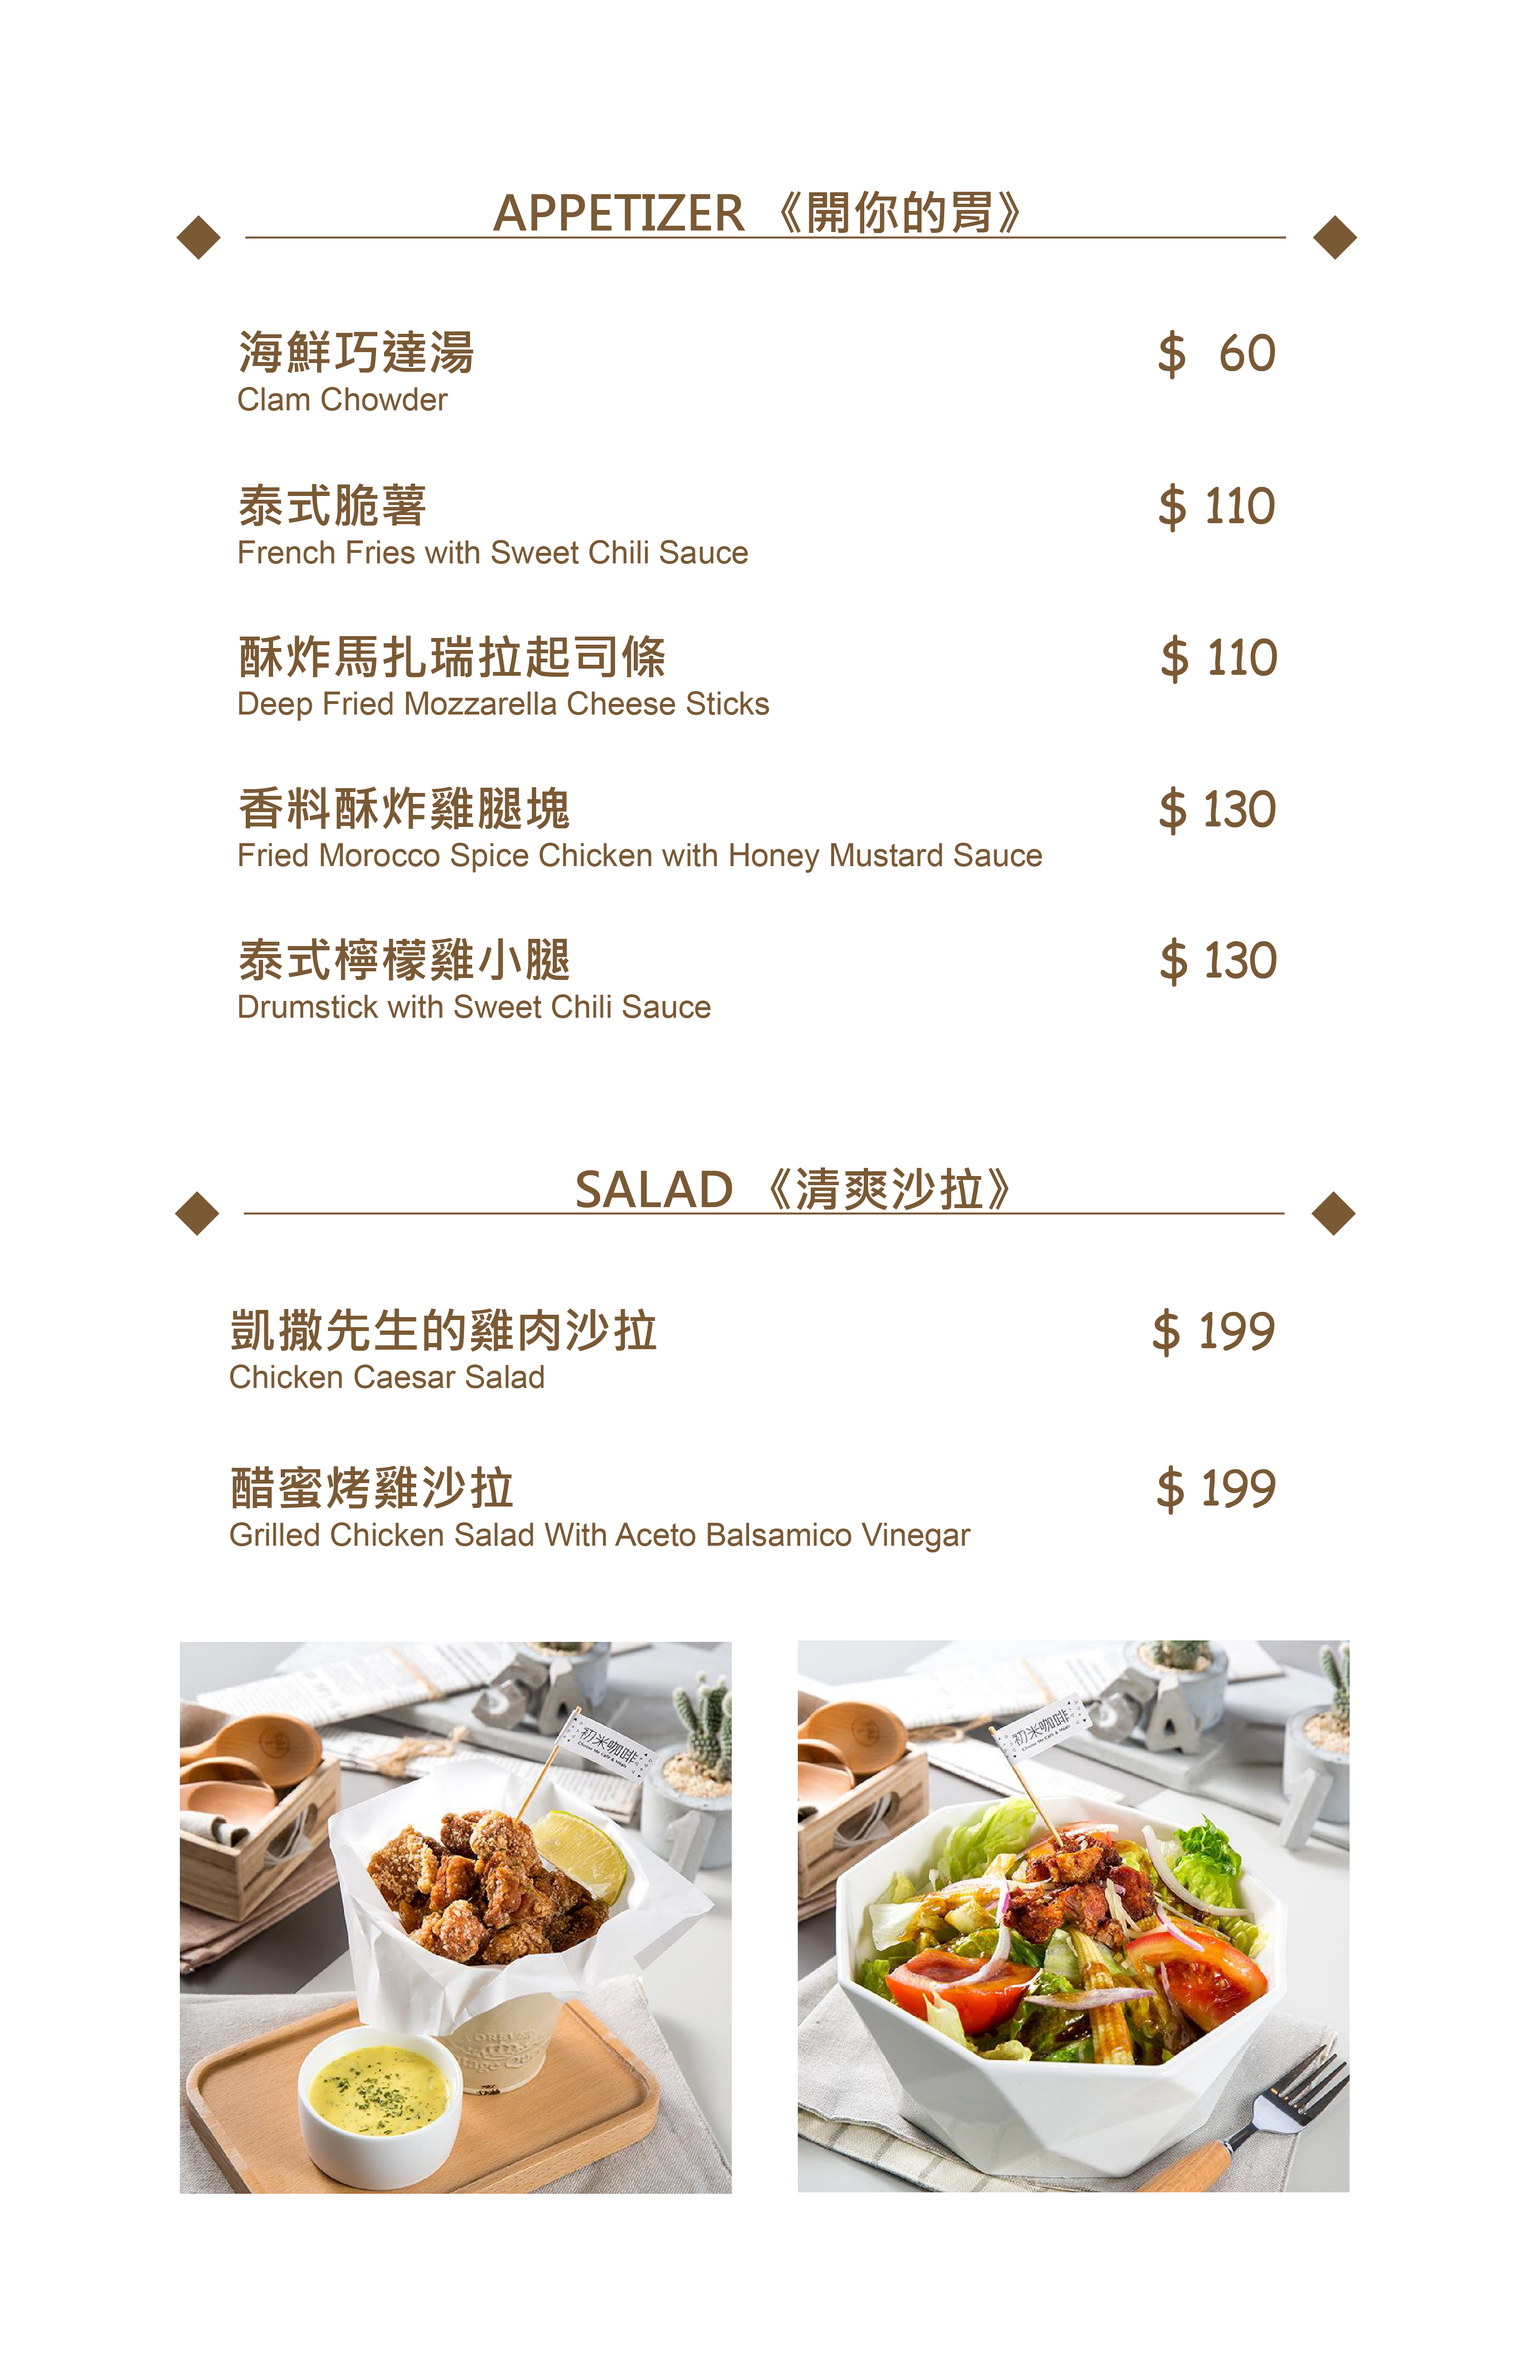
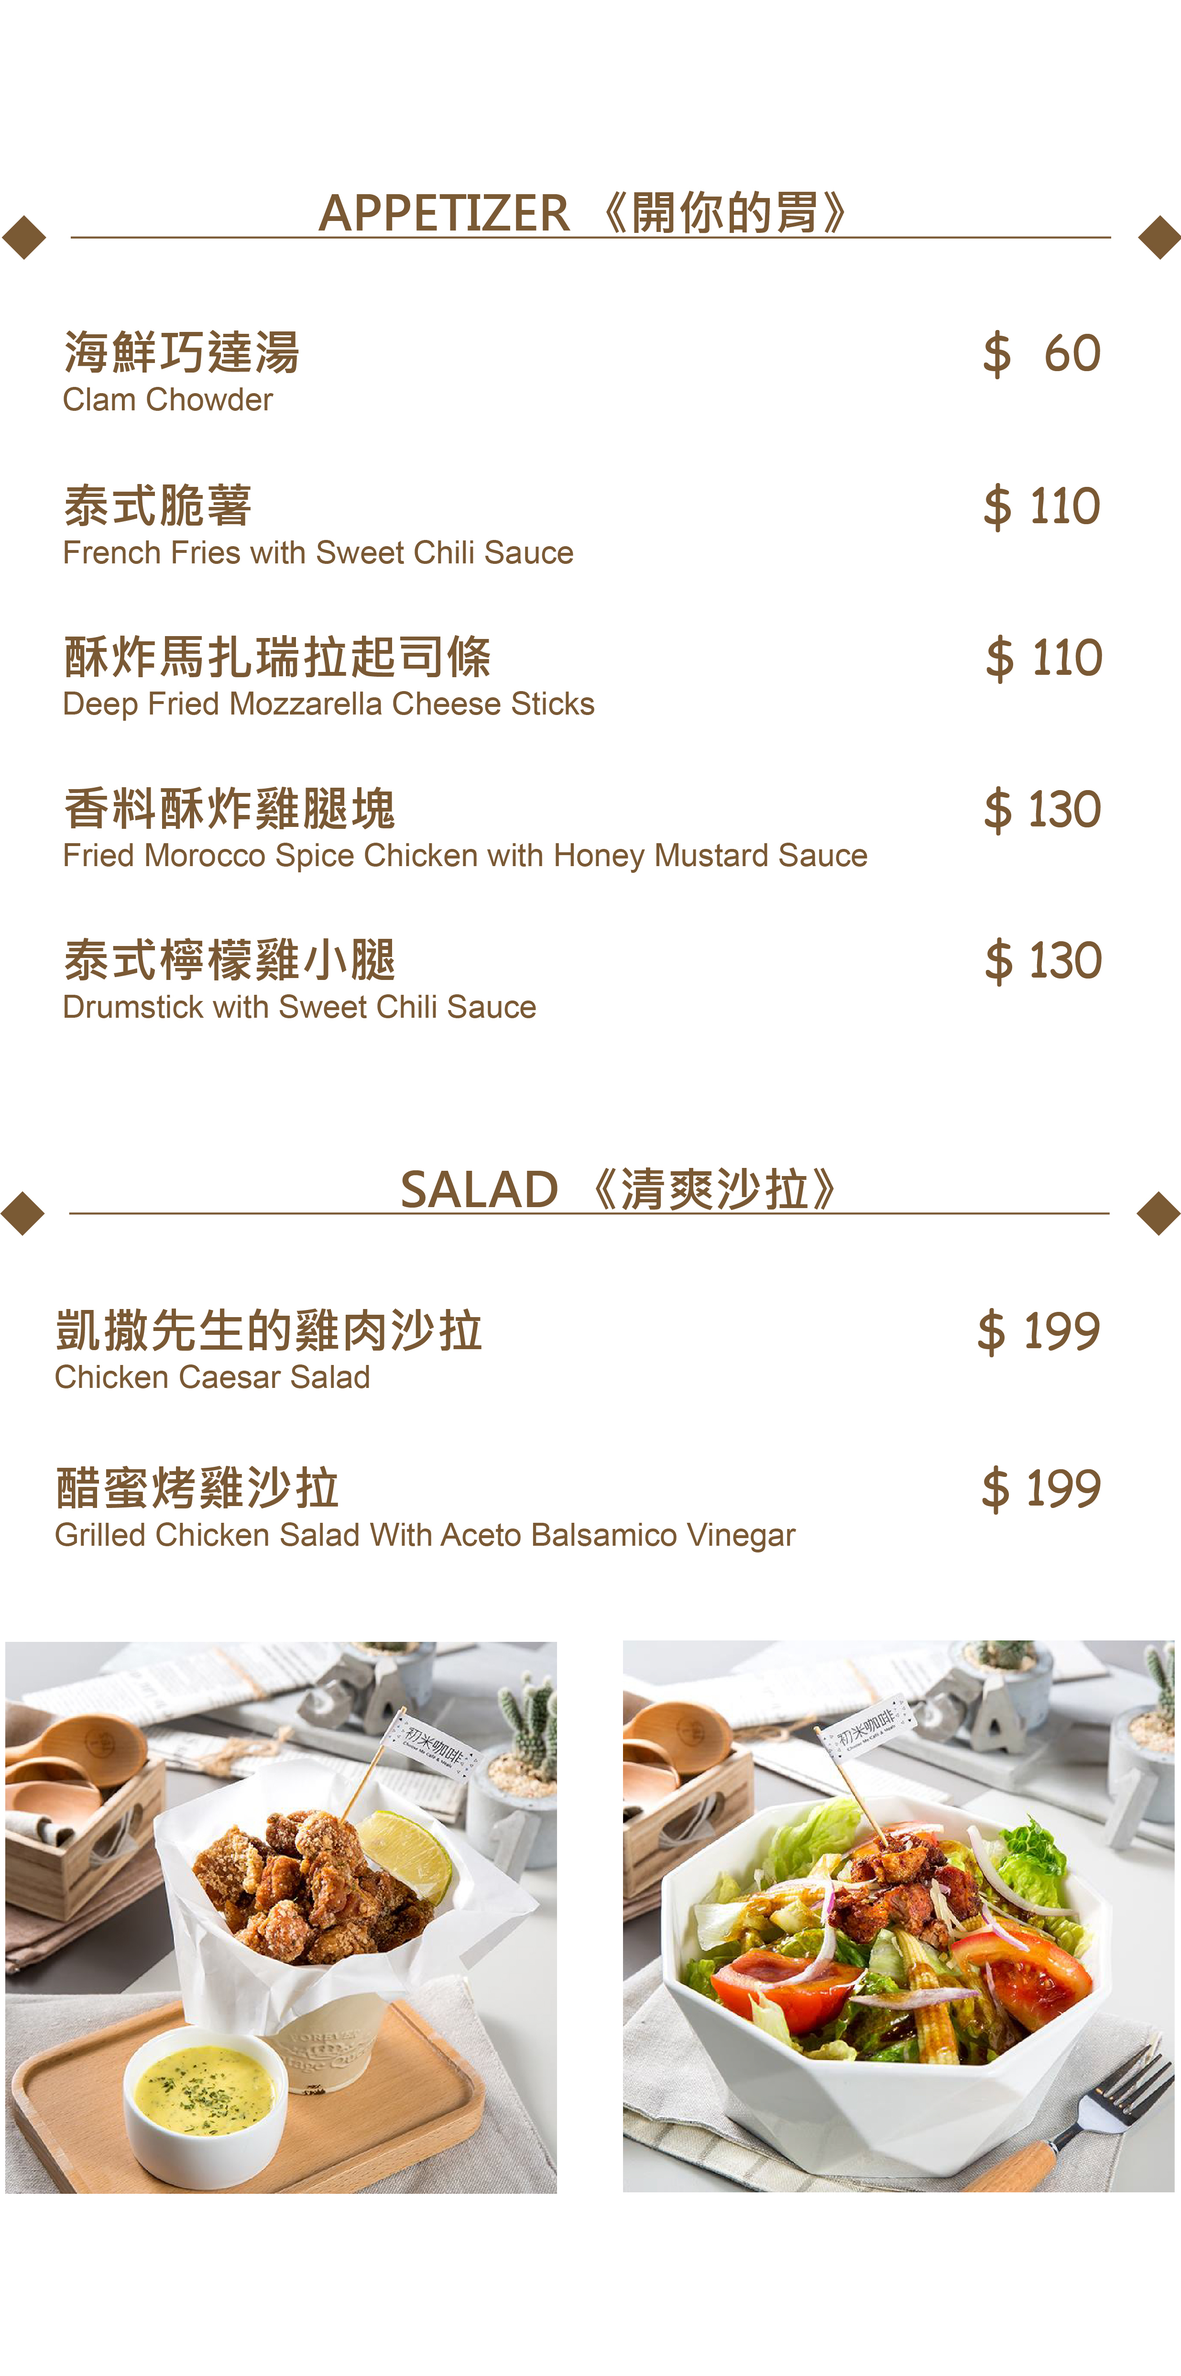
修改 demo/menu_mobile

diff --git a/demo/menu_mobile/index.html b/demo/menu_mobile/index.html
@@ -42,7 +42,7 @@
 
             <div class="w-100"></div>
 
-            <div class="col px-0 menu_list_appetizer">
+            <div class="col menu_list_appetizer">
               <div id="collapse_appetizer" class="collapse menu_collapse animated" data-parent="#menu_mobile">
                 <img class="menu_img" src="./img/menu_appetizer.jpg" alt="">
               </div>
